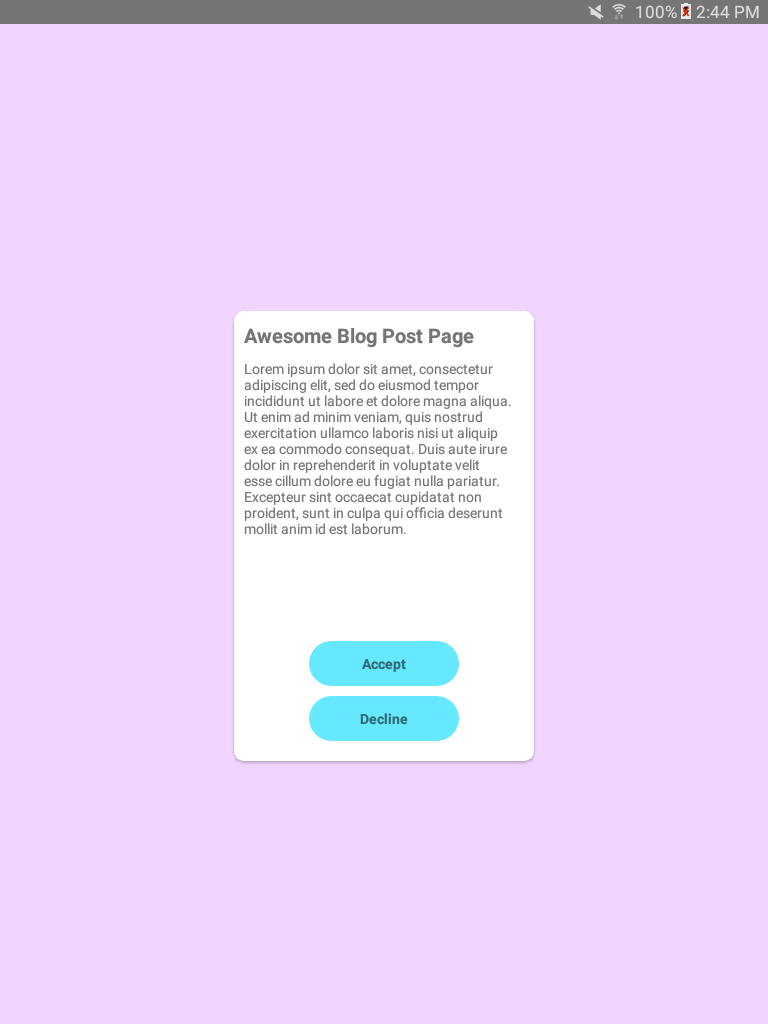
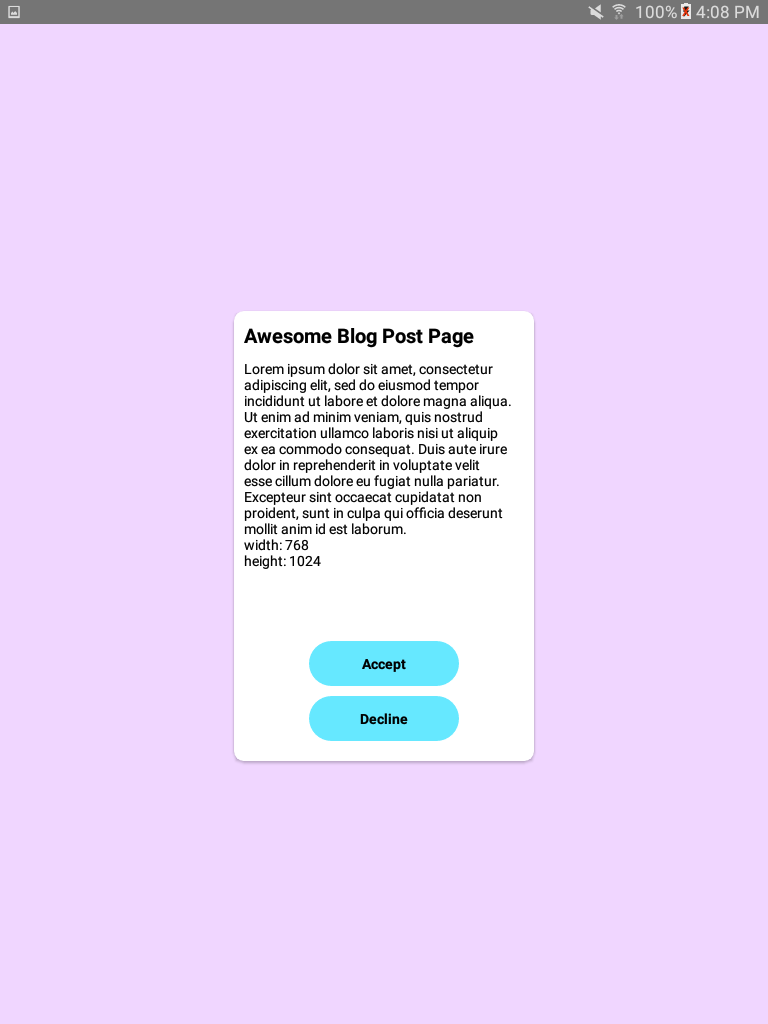
changed font color

diff --git a/pages/Example/Example.js b/pages/Example/Example.js
@@ -47,10 +47,12 @@ const styles = StyleSheet.create({
     title: {
         fontSize: 20,
         fontWeight: 'bold',
-        marginBottom: 10
+        marginBottom: 10,
+        color: 'black'
     },
     text: {
-        fontSize: 14
+        fontSize: 14,
+        color: 'black'
     },
     buttonsContainer: {
         flex: 1,
@@ -68,6 +70,7 @@ const styles = StyleSheet.create({
     },
     buttonText: {
         fontWeight: 'bold',
-        fontSize: 14
+        fontSize: 14,
+        color: 'black'
     }
 });

diff --git a/README.md b/README.md
@@ -73,10 +73,12 @@ const styles = StyleSheet.create({
     title: {
         fontSize: 20,
         fontWeight: 'bold',
-        marginBottom: 10
+        marginBottom: 10,
+        color: 'black'
     },
     text: {
-        fontSize: 14
+        fontSize: 14,
+        color: 'black'
     },
     buttonsContainer: {
         flex: 1,
@@ -94,7 +96,8 @@ const styles = StyleSheet.create({
     },
     buttonText: {
         fontWeight: 'bold',
-        fontSize: 14
+        fontSize: 14,
+        color: 'black'
     }
 });
 ```
@@ -107,3 +110,4 @@ This will end up looking like this:
     <img src="images/tablet1.png" height="450" hspace="20"/>
 </div>
 
+That's obviously not how we want our component to look like on the tablet.. 
